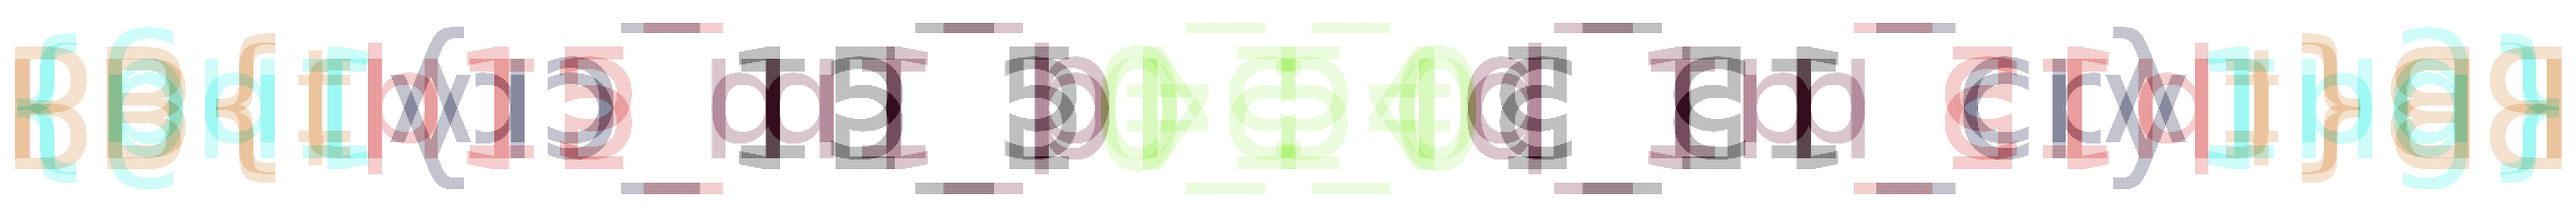
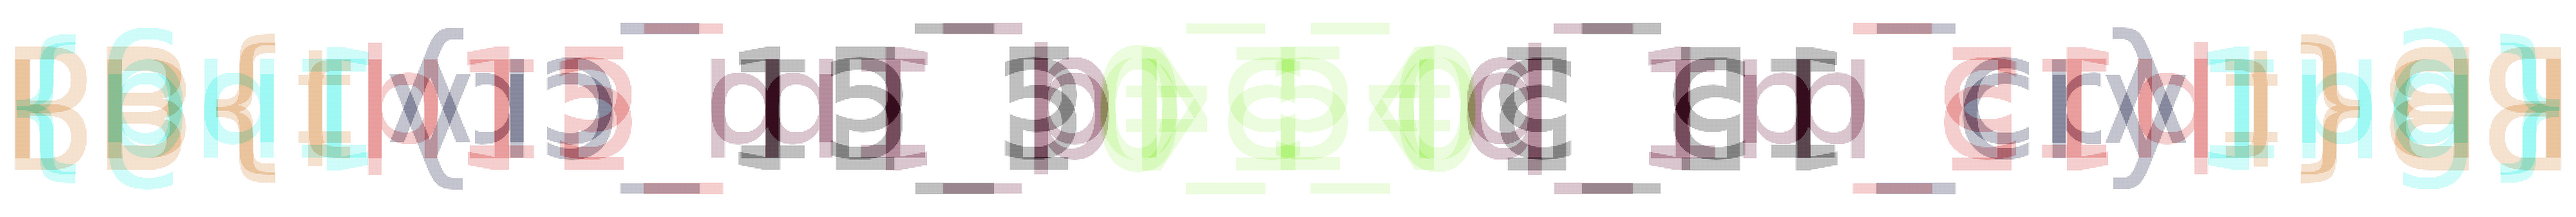
Fix a terrible mistake in odd_old_story
The image file was incorrect: the prepare code did not agree with the
story plot on how the image is encoded/decoded.

diff --git a/ppc/odd_old_story/task_source/common.py b/ppc/odd_old_story/task_source/common.py
@@ -1,0 +1,13 @@
+from PIL import Image
+import numpy as np
+
+
+def invert_vertical(img):
+    arr = np.array(img)
+    arr[:, 1::2] = arr[:, 1::2][::-1, :]
+    return Image.fromarray(arr)
+
+def invert_horizontal(img):
+    arr = np.array(img)
+    arr[0::2, :] = arr[0::2, :][:, ::-1]
+    return Image.fromarray(arr)

diff --git a/ppc/odd_old_story/task_source/exploit.py b/ppc/odd_old_story/task_source/exploit.py
@@ -1,0 +1,8 @@
+from PIL import Image
+
+from common import invert_vertical, invert_horizontal
+
+
+if __name__ == '__main__':
+    img = Image.open(input("Image file name: "))
+    invert_vertical(invert_horizontal(img)).show()

diff --git a/ppc/odd_old_story/task_source/prepare.py b/ppc/odd_old_story/task_source/prepare.py
@@ -1,0 +1,8 @@
+from PIL import Image
+
+from common import invert_vertical, invert_horizontal
+
+
+if __name__ == '__main__':
+    img = Image.open(input("Image file name: "))
+    invert_horizontal(invert_vertical(img)).show()
